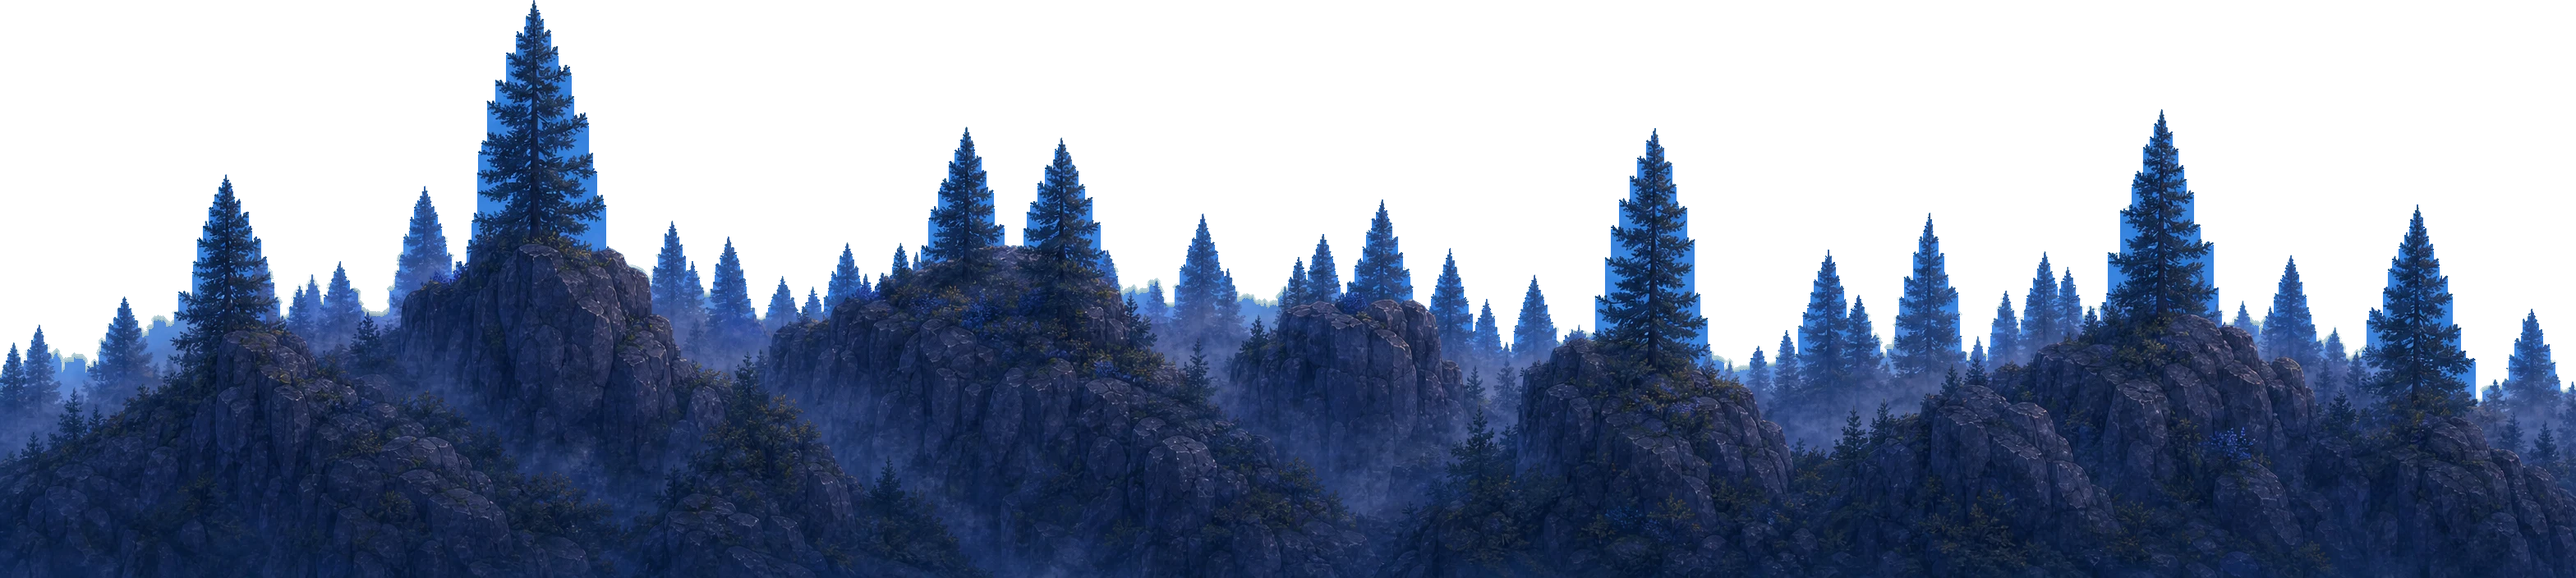
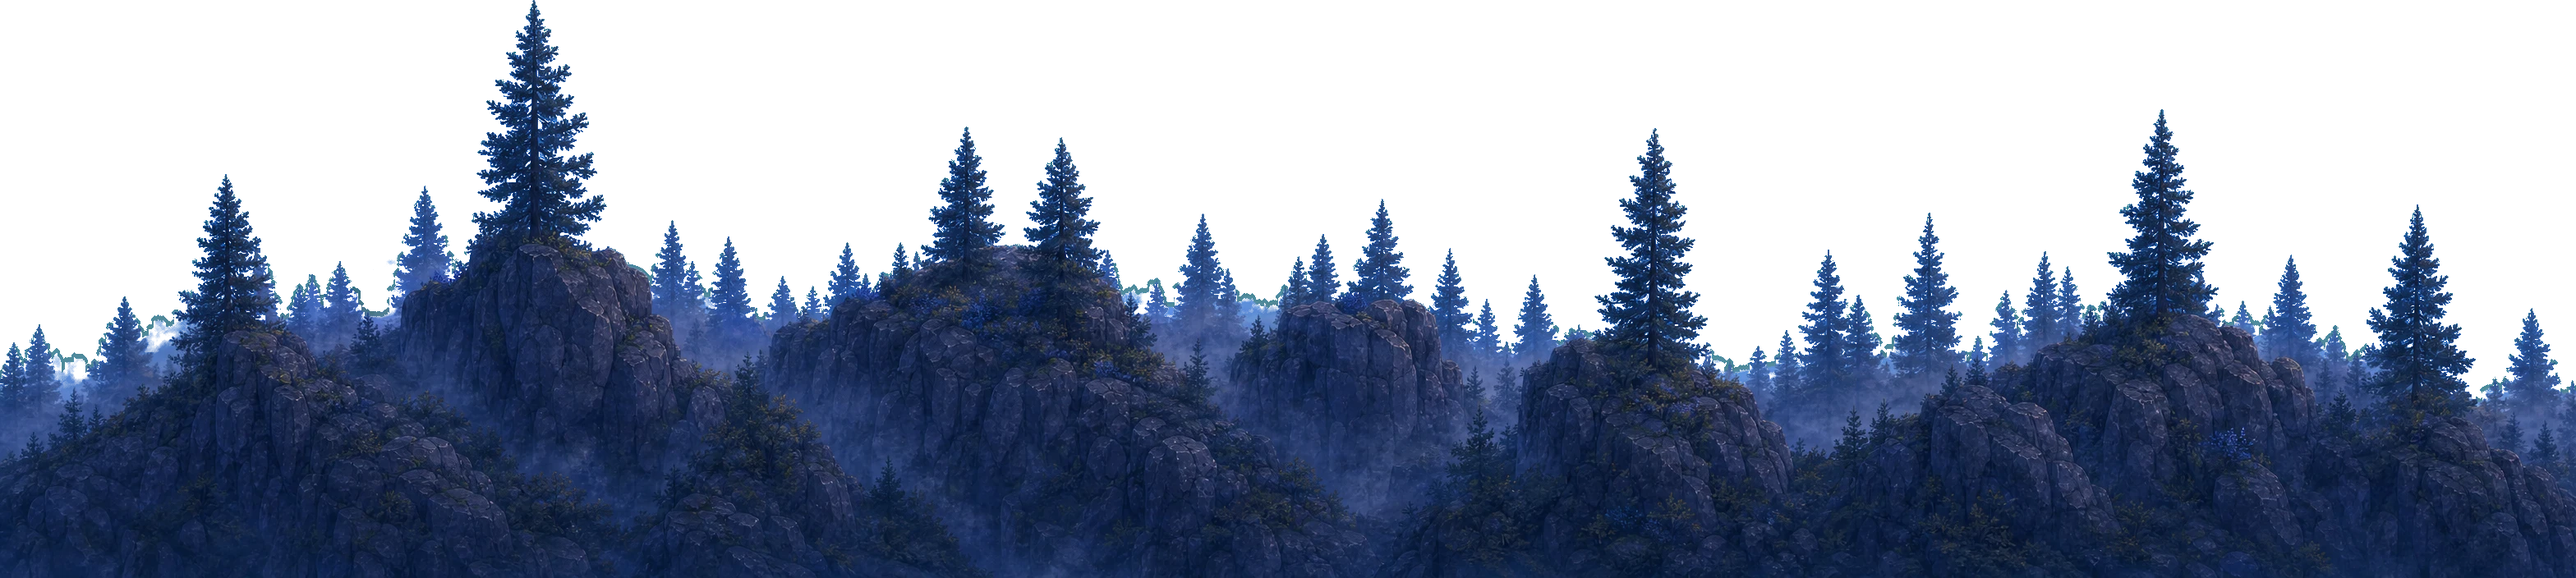
Fix Fogline Runner: world-scrolling objects never moved on screen
Josh caught this playing the shipped build: the fog wall never
appeared, gaps weren't telegraphed, the Traveler looked like she was
floating, and jumping made her balloon in size.

The one bug behind most of it: every obstacle/gap/wall/mote sprite was
positioned once at its LEVEL-TABLE world-x and never repositioned for
scroll. Only the collision math (which independently recomputes
worldX - scrollX each frame) accounted for the scroll offset, so
gameplay was correct while every sprite sat frozen at its absolute
coordinate -- looking right only in the opening seconds while scrollX
was still near zero, then silently scrolling off to the right forever
(a wall thousands of px into the level was never once inside the
visible 0-1080 screen range). Added updateWorldPositions(), the one
place world-x becomes screen-x for every scrolling entity, each frame.

Other fixes from the same live-testing pass:
- The fog wall column was floating 250-870px up in the sky (a bad
  bottom-anchor offset), nowhere near the ground -- now grounded on the
  trail, feathered on its edges and fading in from the top instead of a
  hard-edged card.
- The trail art's walking surface sits much deeper into the source
  image than assumed; the Traveler now stands in the dirt instead of
  the grass fringe above it.
- The three background layers (far mountains, mid-ridge, trail) still
  had their AI-generation flat blue sky baked in as fully opaque, never
[…]

diff --git a/src/game/foglineRunScene.js b/src/game/foglineRunScene.js
@@ -40,7 +40,8 @@ const INPUT_BUFFER_MS = 100
 
 const LENS_WINDOW_PX = 640 // ~4 body-lengths ahead: the window a wall enters
 const WALL_HALF_W = 180 // fog column is ~360px wide
-const ACTIVATE_MS = 900 // hold-to-clear duration once the lens is engaged
+const FOG_COL_H = 650 // bottom sits on the trail, top reaches roughly y=500
+const ACTIVATE_MS = 550 // hold-to-clear duration once the lens is engaged
 const STUMBLE_OBSTACLE_MS = 600
 const STUMBLE_EASE_IN_MS = 400 // resuming scroll after a fog stumble clears
 const GAP_DOWN_MS = 400
@@ -224,6 +225,36 @@ export function makeFoglineRunScene(Phaser) {
         g.generateTexture('frun-dust', 12, 12)
         g.destroy()
       }
+      // The fog wall's column: feathered ~60px on each side AND fading in
+      // from the top, so it reads as a soft drift of fog rather than a
+      // flat pale card standing in the trail (a one-time build, reused by
+      // every wall). Banded vertically (coarser than the per-pixel
+      // horizontal feather) purely to keep the one-time draw-call count
+      // reasonable.
+      if (!this.textures.exists('frun-fogcol')) {
+        const w = WALL_HALF_W * 2
+        const h = FOG_COL_H
+        const feather = 60
+        const topFadeFrac = 0.3 // top 30% of the column fades in from 0
+        const bands = 20
+        const g = this.make.graphics({ add: false })
+        for (let b = 0; b < bands; b++) {
+          const vFrac = b / bands
+          const vAlpha = vFrac < topFadeFrac ? vFrac / topFadeFrac : 1
+          const bandY = vFrac * h
+          const bandH = h / bands + 1
+          for (let x = 0; x < w; x++) {
+            let hAlpha = 1
+            if (x < feather) hAlpha = x / feather
+            else if (x > w - feather) hAlpha = (w - x) / feather
+            const a = Math.max(0, Math.min(1, hAlpha)) * Math.max(0, Math.min(1, vAlpha)) * 0.92
+            g.fillStyle(0xd7dde8, a)
+            g.fillRect(x, bandY, 1, bandH)
+          }
+        }
+        g.generateTexture('frun-fogcol', w, h)
+        g.destroy()
+      }
     }
 
     // ---- parallax background: sky is static, far/ridge/trail scroll at
@@ -243,7 +274,12 @@ export function makeFoglineRunScene(Phaser) {
       // that cliff face instead of standing on the path.
       this.far = this.makeScrollLayer('bg-far', 0.15, 1, { originY: 1, anchorY: 1150 })
       this.ridge = this.makeScrollLayer('bg-ridge', 0.45, 2, { originY: 1, anchorY: 1180 })
-      this.trailLayer = this.makeScrollLayer('bg-trail', 1.0, 3, { originY: 0, anchorY: TRAIL_Y - 70 })
+      // Measured directly against the art (sampling alpha down several
+      // columns of the keyed source): grass tips start ~70-90px into the
+      // image, but the ground isn't reliably SOLID until ~110-130px --
+      // anchoring at the old 70px put the Traveler's feet in the grass
+      // fringe, reading as floating above the path.
+      this.trailLayer = this.makeScrollLayer('bg-trail', 1.0, 3, { originY: 0, anchorY: TRAIL_Y - 210 })
     }
 
     makeScrollLayer(key, factor, depth, { originY, anchorY }) {
@@ -280,17 +316,26 @@ export function makeFoglineRunScene(Phaser) {
     }
 
     // ---- trail surface + visible gaps. The trail texture scrolls exactly
-    // like the other layers (factor 1.0, already built above); gaps are
-    // drawn as separate dark fill rectangles placed at their fixed world
-    // positions so the ground visibly breaks open rather than just being
-    // an invisible collision zone. ----
+    // like the other layers (factor 1.0, already built above) and never
+    // actually has a hole cut in it -- these overlays are the ONLY thing
+    // visually breaking the path open at each gap. A flat opaque rectangle
+    // read as a jarring solid black block once the world-position bug
+    // (see updateWorldPositions) was fixed and these became visible for
+    // the first time in practice; a top-down gradient (solid near the
+    // path, fading out with depth) plus a thin bright rim at the lip
+    // reads as an actual drop instead, and doubles as the "where do I
+    // jump" telegraph. ----
     buildTrailAndGaps() {
+      const GAP_DRAW_H = 420
       this.gapFills = LEVEL.gaps.map((g) => {
-        const rect = this.add
-          .rectangle(g.x + g.w / 2, TRAIL_Y + 60, g.w + 8, FRAME_H - TRAIL_Y - 60 + 40, 0x05070d, 1)
-          .setOrigin(0.5, 0)
-          .setDepth(4)
-        return { ...g, obj: rect }
+        const width = g.w + 8
+        const container = this.add.container(g.x + g.w / 2, TRAIL_Y).setDepth(4)
+        const body = this.add.graphics()
+        body.fillGradientStyle(0x11151f, 0x11151f, 0x11151f, 0x11151f, 0.95, 0.95, 0, 0)
+        body.fillRect(-width / 2, 0, width, GAP_DRAW_H)
+        const rim = this.add.rectangle(0, 1, width, 5, 0xd7dde8, 0.6).setOrigin(0.5, 0)
+        container.add([body, rim])
+        return { ...g, obj: container }
       })
     }
 
@@ -312,11 +357,10 @@ export function makeFoglineRunScene(Phaser) {
 
     buildWalls() {
       this.walls = LEVEL.walls.map((w) => {
-        const col = this.add
-          .rectangle(w.x, TRAIL_Y - 250, WALL_HALF_W * 2, 620, 0xcdd6e6, 0.92)
-          .setOrigin(0.5, 1)
-          .setDepth(20)
-        col.setBlendMode(Phaser.BlendModes.NORMAL)
+        // Bottom-anchored ON the trail so the column actually stands in
+        // the Traveler's path (it previously floated 250-870px up in the
+        // sky, nowhere near the ground she runs on).
+        const col = this.add.image(w.x, TRAIL_Y, 'frun-fogcol').setOrigin(0.5, 1).setDepth(20)
         let shapeObj = null
         const size = SHAPE_SIZE[w.shape]
         if (size) {
@@ -369,19 +413,27 @@ export function makeFoglineRunScene(Phaser) {
       this.player = this.add.sprite(PLAYER_X, TRAIL_Y, 'run-1')
       this.player.setOrigin(0.5, 1)
       this.player.setDepth(30)
-      this.applyPlayerScale()
+      this.applyPlayerScale('run-1')
       this.playerVY = 0
     }
 
-    applyPlayerScale() {
-      const srcH = this.player.height || TRAVELER_H
+    // Every run/jump/stumble/activate frame is its own source PNG at its
+    // own native size (feet-to-canvas-edge varies per pose), so the scale
+    // has to be recomputed per texture. Reading the RAW source image's
+    // height here (not `this.player.height`) sidesteps a real bug this
+    // scene hit live: once a GameObject has been scaled, its own
+    // width/height getters can echo the PREVIOUS frame's already-scaled
+    // display size instead of the new frame's native size, compounding
+    // into a dramatically-too-large sprite on the very next texture swap.
+    applyPlayerScale(key) {
+      const srcH = this.textures.get(key).getSourceImage().height || TRAVELER_H
       this.player.setScale(TRAVELER_H / srcH)
     }
 
     setPlayerTexture(key) {
       if (this.textures.exists(key) && this.player.texture.key !== key) {
         this.player.setTexture(key)
-        this.applyPlayerScale()
+        this.applyPlayerScale(key)
       }
     }
 
@@ -395,6 +447,12 @@ export function makeFoglineRunScene(Phaser) {
       this.sparkFlickerMs = 0
     }
 
+    // The activate glyph is the ONLY persistent lantern-area visual --
+    // alpha 0 until a wall enters the lens window, so it only ever shows
+    // when the lens is actually needed (an earlier persistent "lantern
+    // glow" for mote collection sat at this same fixed point but didn't
+    // track the Traveler through a jump and had no real reason to be
+    // visible outside the lens window; removed).
     buildBeamGraphics() {
       this.beam = this.add.graphics().setDepth(50)
       this.lensGlyph = this.add
@@ -402,15 +460,6 @@ export function makeFoglineRunScene(Phaser) {
         .setDisplaySize(48, 48)
         .setDepth(36)
         .setAlpha(0)
-      // The lantern glow at the Traveler's hand brightens a notch per mote
-      // collected (no HUD is on screen during the run to show it any other
-      // way -- this scene fully replaces the walkable-zone stage).
-      this.lanternGlow = this.add
-        .image(BEAM_ORIGIN_X, BEAM_ORIGIN_Y, 'frun-glow')
-        .setDepth(34)
-        .setBlendMode(Phaser.BlendModes.ADD)
-        .setDisplaySize(18, 18)
-        .setAlpha(0.25)
     }
 
     // Wall 5 clearing reveals the Mistfields (Zone 3's own map plate) rather
@@ -574,6 +623,10 @@ export function makeFoglineRunScene(Phaser) {
       wall.beamProgress = Math.min(ACTIVATE_MS, wall.beamProgress + delta)
       const t = wall.beamProgress / ACTIVATE_MS
       this.drawBeam(t)
+      // The wall visibly thins WHILE held (not just at completion) --
+      // "the beam builds... the wall thins" reads as one continuous
+      // action, and a released-early hold keeps its partial progress.
+      wall.col.setAlpha(0.92 * (1 - t * 0.65))
       if (t >= 1) this.clearWall(wall)
     }
 
@@ -584,16 +637,19 @@ export function makeFoglineRunScene(Phaser) {
       const sy = BEAM_ORIGIN_Y
       const wall = this.activeWall
       if (!wall) return
-      const tx = wall.x - this.scrollX
-      const ty = TRAIL_Y - 120
-      const ex = sx + (tx - sx) * Math.min(1, t * 1.15)
-      const ey = sy + (ty - sy) * Math.min(1, t * 1.15)
-      this.beam.lineStyle(9, 0xfff3d0, 0.28)
+      const ex = wall.x - this.scrollX
+      const ey = TRAIL_Y - 120
+      // Full length instantly (the Ascent's beam is a one-shot flash, not
+      // a slow-growing wire) -- a quick flicker in width/alpha while held
+      // stands in for "progress"; the wall visibly dissolving (above) is
+      // what actually reads as the beam doing work.
+      const flicker = 0.85 + Math.sin(t * 40) * 0.15
+      this.beam.lineStyle(10, 0xfff3d0, 0.3 * flicker)
       this.beam.beginPath()
       this.beam.moveTo(sx, sy)
       this.beam.lineTo(ex, ey)
       this.beam.strokePath()
-      this.beam.lineStyle(4, 0xfff3d0, 0.95)
+      this.beam.lineStyle(4, 0xfff3d0, 0.95 * flicker)
       this.beam.beginPath()
       this.beam.moveTo(sx, sy)
       this.beam.lineTo(ex, ey)
@@ -704,6 +760,7 @@ export function makeFoglineRunScene(Phaser) {
 
       const worldX = this.scrollX + PLAYER_X
 
+      this.updateWorldPositions()
       this.updatePlayerVertical(dt)
       this.updateGroundCollision(worldX)
       this.updateWalls(worldX)
@@ -816,6 +873,33 @@ export function makeFoglineRunScene(Phaser) {
       }
     }
 
+    // Every level-table entity is stored and iterated in WORLD-space (its
+    // fixed position along the ~23,200px trail); only the collision math
+    // (`updateGroundCollision`/`updateWalls`/`updateMotes`, all keyed off
+    // `worldX = scrollX + PLAYER_X`) accounted for that scrollX offset --
+    // the sprites themselves were left sitting at their raw world-x
+    // forever, correct-looking only in the opening seconds while scrollX
+    // was still near zero, then silently scrolling off to the right
+    // forever (a wall thousands of px into the level was never once
+    // inside the visible 0-1080 screen range). This is the one place
+    // world-x becomes screen-x for every scrolling entity.
+    updateWorldPositions() {
+      for (const o of this.obstacles) {
+        if (o.obj) o.obj.x = o.x - this.scrollX
+      }
+      for (const w of this.walls) {
+        w.col.x = w.x - this.scrollX
+        if (w.shapeObj) w.shapeObj.x = w.x - this.scrollX
+        if (w.propObj) w.propObj.x = w.x - this.scrollX
+      }
+      for (const g of this.gapFills) {
+        g.obj.x = g.x + g.w / 2 - this.scrollX
+      }
+      for (const m of this.motes) {
+        if (!m.collected) m.obj.x = m.x - this.scrollX
+      }
+    }
+
     updateMotes(worldX) {
       for (const m of this.motes) {
         if (m.collected) continue
@@ -829,15 +913,6 @@ export function makeFoglineRunScene(Phaser) {
           if (this.moteNotches < MOTE_NOTCH_CAP) {
             this.moteNotches += 1
             this.emit('mote-notch', { count: this.moteNotches })
-            const k = this.moteNotches / MOTE_NOTCH_CAP
-            this.tweens.add({
-              targets: this.lanternGlow,
-              alpha: 0.25 + k * 0.55,
-              displayWidth: 18 + k * 22,
-              displayHeight: 18 + k * 22,
-              duration: 260,
-              ease: 'Sine.out',
-            })
           }
           this.playSfx('mote')
         }
